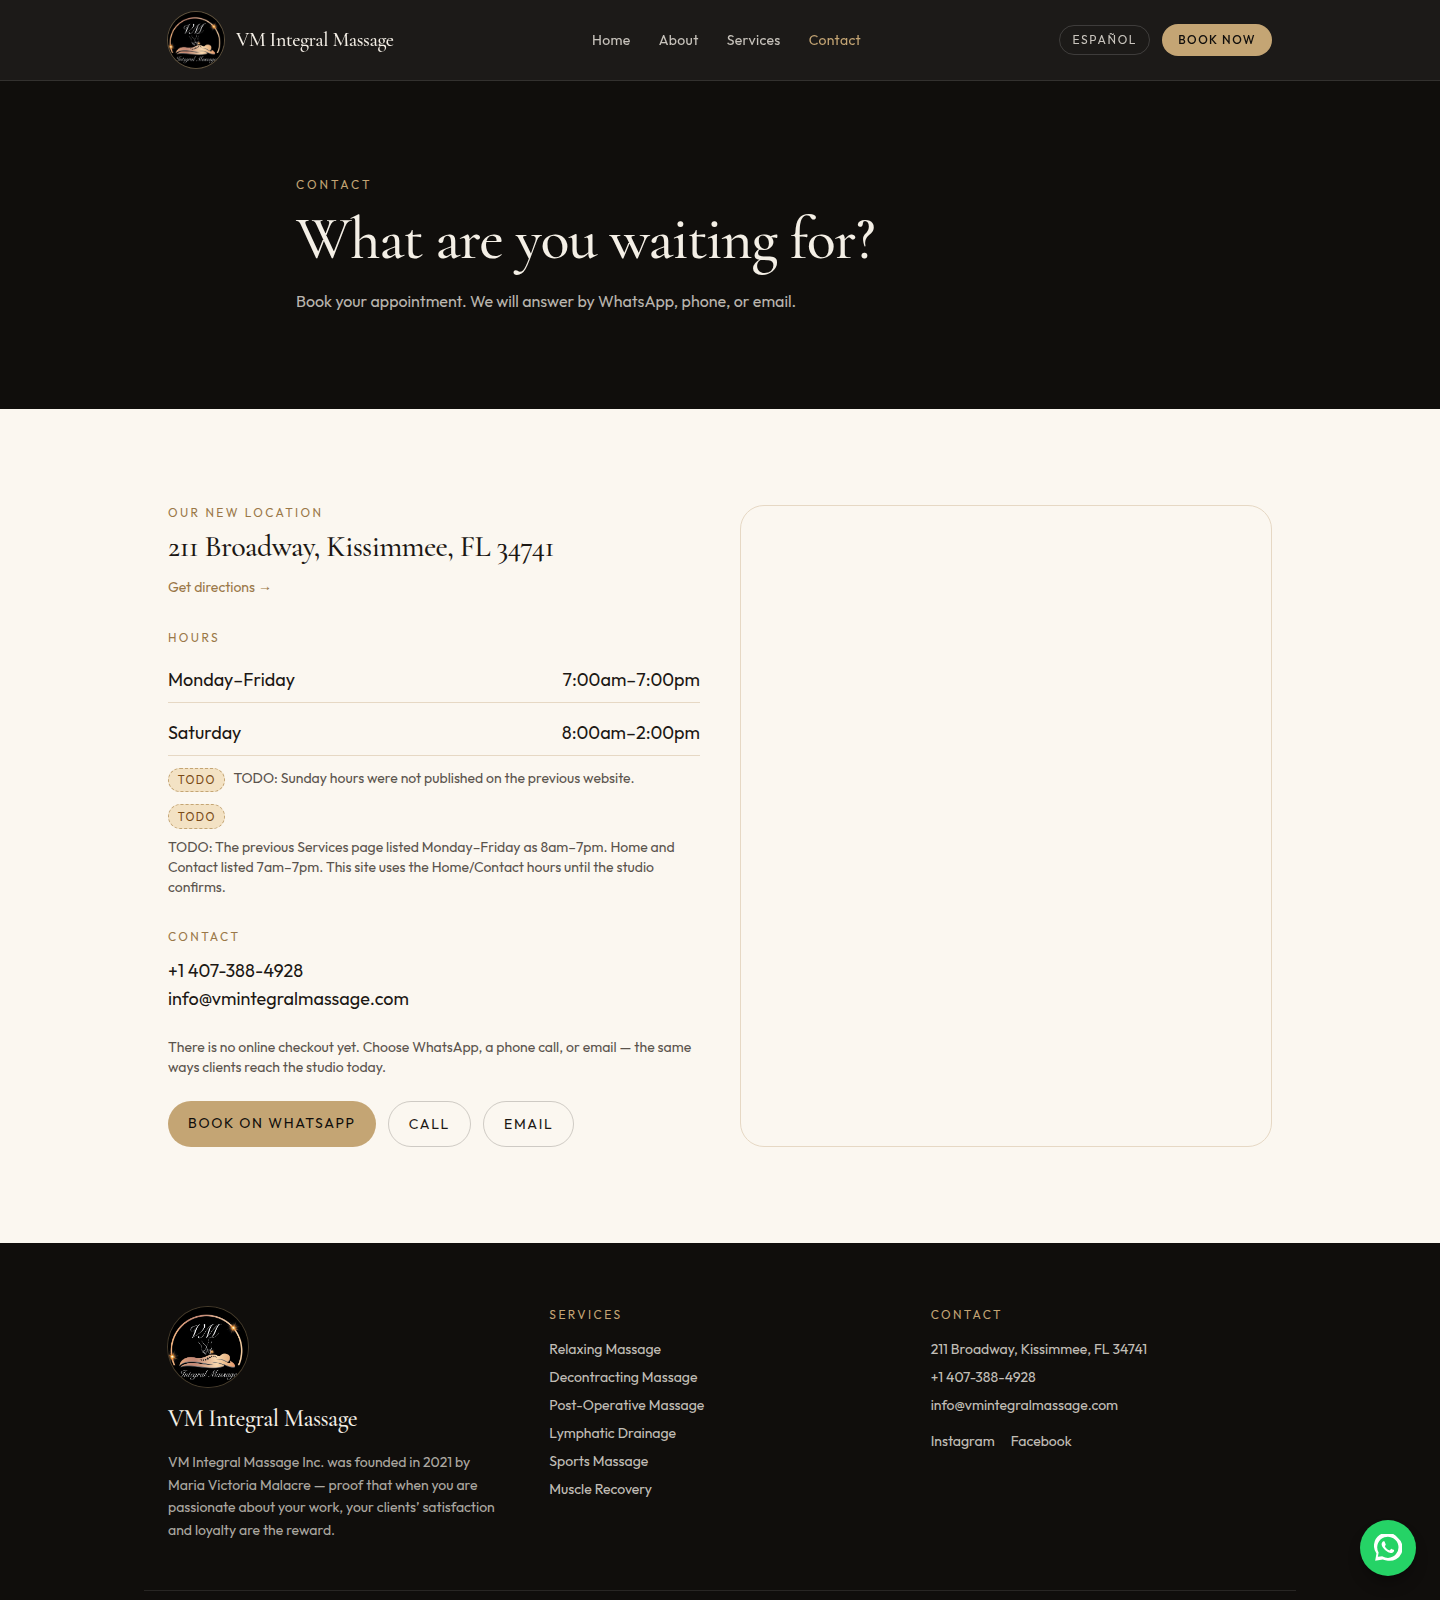
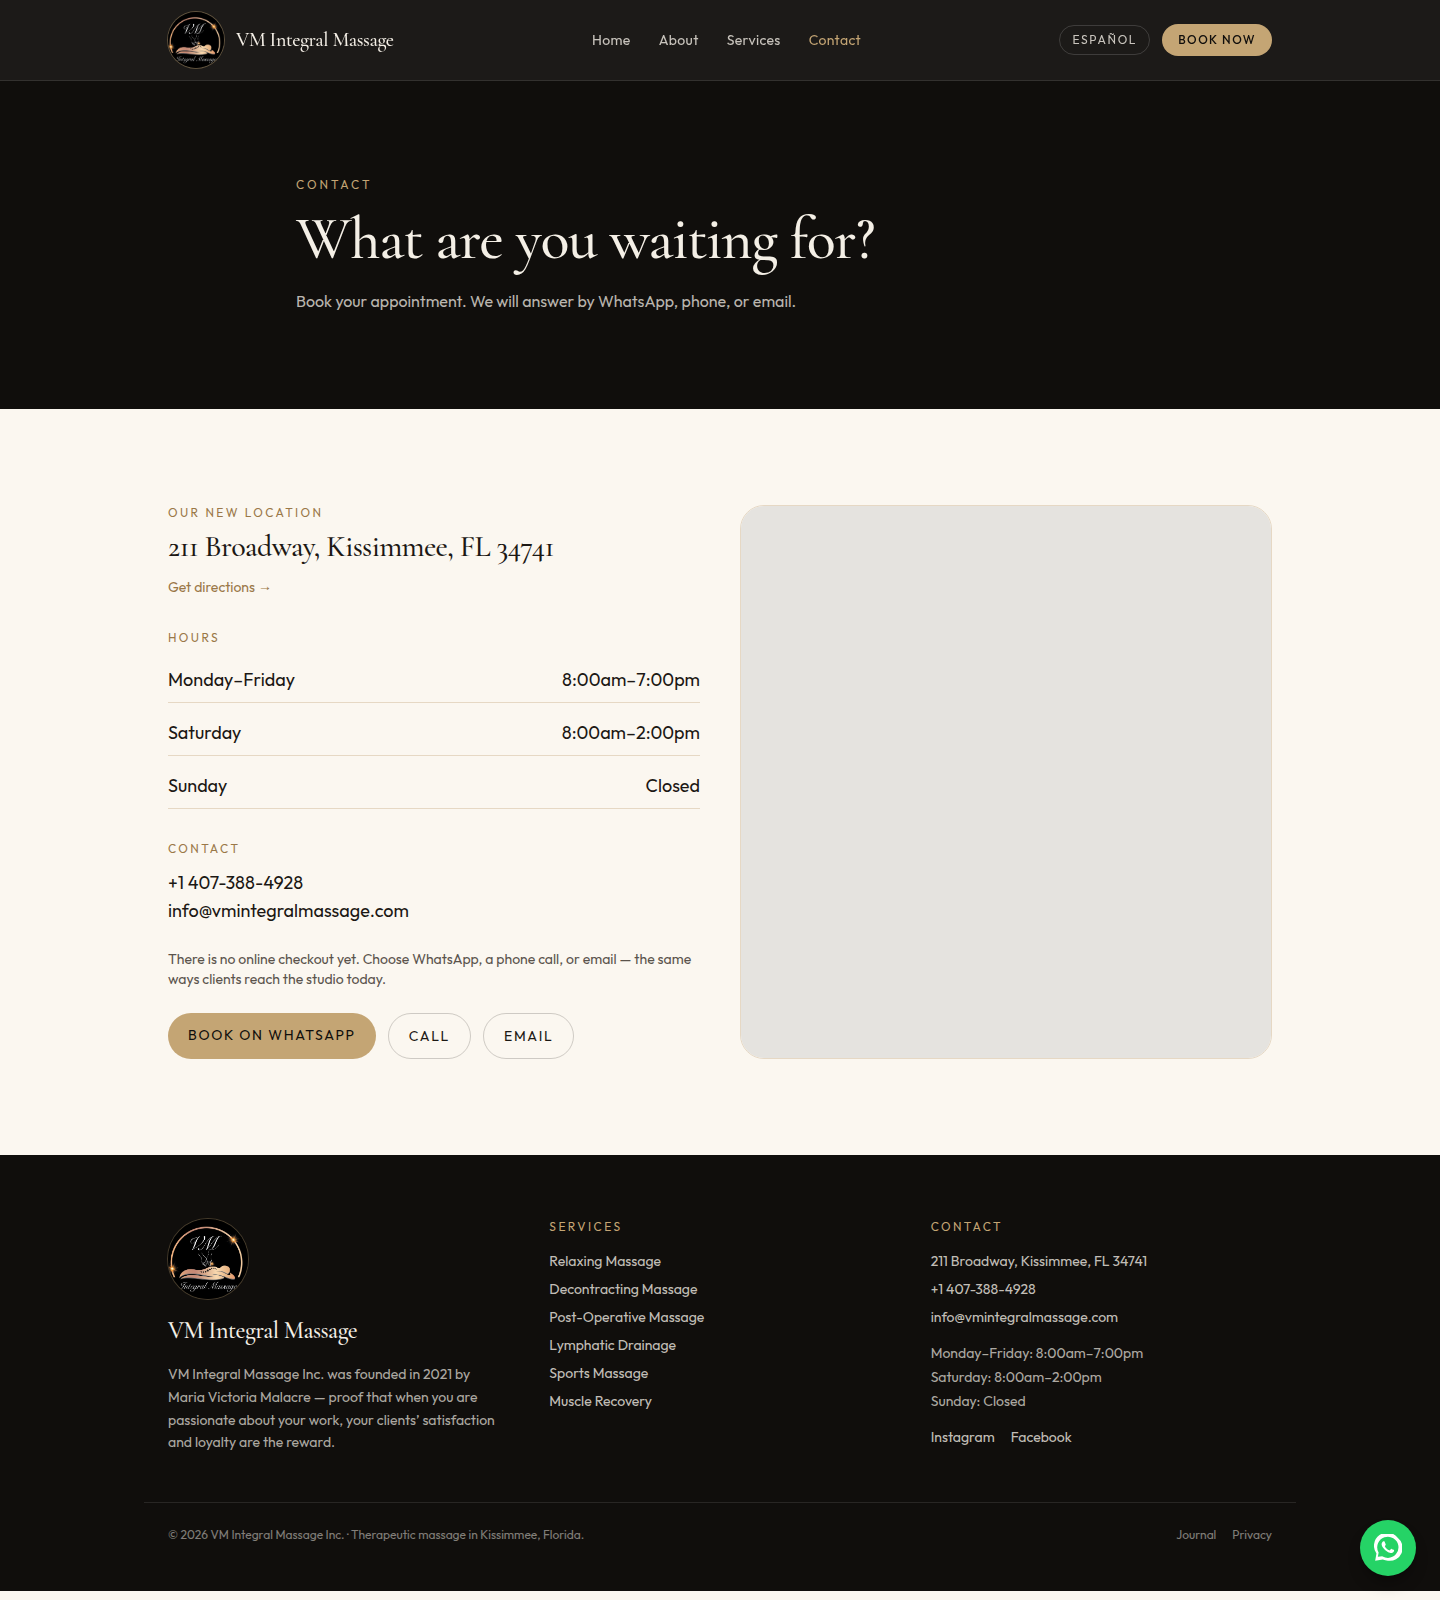
Set confirmed studio hours and drop hours TODOs
Monday–Friday is 8:00am–7:00pm, Saturday 8:00am–2:00pm, Sunday closed, in English and Spanish on contact, footer, and JSON-LD.

Changed region(s): [[0.0, 0.4688, 1.0, 1.0], [0.4375, 0.5938, 0.4688, 0.625]]

diff --git a/CONTENT-TODOS.md b/CONTENT-TODOS.md
@@ -1,14 +1,12 @@
-# Content TODOs (facts not published on the previous site)
+# Content TODOs (facts still missing)
 
 These are shown on the new site as labeled TODO placeholders. Do not invent replacements until the studio confirms them.
 
 1. **Prices** — no prices appeared on the WordPress pages, posts, or media captions.
 2. **Session durations** — no minutes or package lengths were published (except the post-operative recommendation of 10–20 lymphatic drainage sessions).
-3. **Sunday hours** — Home and Contact listed Monday–Friday 7am–7pm and Saturday 8am–2pm. Sunday was not listed.
-4. **Hours conflict** — the Services page said Monday–Friday 8am–7pm. This site uses the Home/Contact hours (7am–7pm) until confirmed.
-5. **Licenses / credentials** — the site named founder Maria Victoria Malacre, founding year 2021, and “more than 17 years of experience.” No license number, NPI, or certification list was published.
-6. **Cupping** — a Google review on the homepage mentioned cupping, but cupping is not listed as a service. It is not added as a service here.
-7. **Journal** — the only WordPress post was the default “Hello world!” entry. It is not republished.
-8. **Privacy policy** — there was no privacy page. The new `/privacy` page is a short placeholder for attorney review.
-9. **Full photo gallery** — the About page had a large post-operative gallery (100+ media items). This site includes studio photos plus a sample of those results; the rest remain in the previous WordPress media library.
-10. **WhatsApp greeting** — the previous Joinchat widget had an empty default message. The new prefilled greeting is a simple booking request and can be edited in `src/content/copy/*.json`.
+3. **Licenses / credentials** — the site named founder Maria Victoria Malacre, founding year 2021, and “more than 17 years of experience.” No license number, NPI, or certification list was published.
+4. **Cupping** — a Google review on the homepage mentioned cupping, but cupping is not listed as a service. It is not added as a service here.
+5. **Journal** — the only WordPress post was the default “Hello world!” entry. It is not republished.
+6. **Privacy policy** — there was no privacy page. The new `/privacy` page is a short placeholder for attorney review.
+7. **Full photo gallery** — the About page had a large post-operative gallery (100+ media items). This site includes studio photos plus a sample of those results; the rest remain in the previous WordPress media library.
+8. **WhatsApp greeting** — the previous Joinchat widget had an empty default message. The new prefilled greeting is a simple booking request and can be edited in `src/content/copy/*.json`.

diff --git a/src/content/README.md b/src/content/README.md
@@ -12,4 +12,4 @@ Non-developers can update copy without touching page layouts.
 
 After editing JSON, run `npm run build` (or keep `npm run dev` running) to see changes.
 
-Do not invent prices, hours, or credentials. If a fact is unknown, keep the `TODO` wording already in the copy files.
+Hours are confirmed in `site.json`. Do not invent prices or credentials. If a fact is unknown, keep the `TODO` wording already in the copy files.
